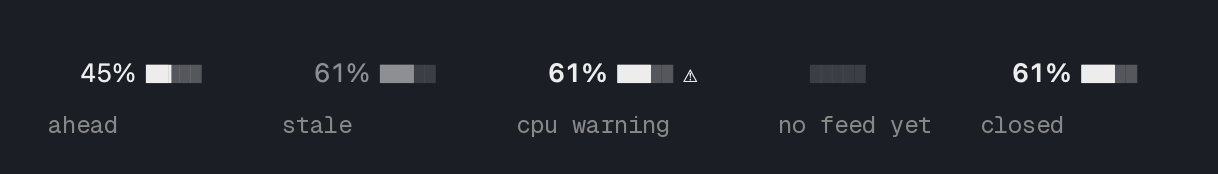
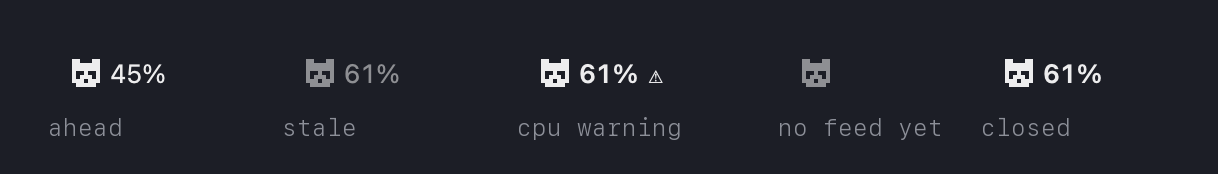
0.1.2: the menu bar item is the panda and the weekly percentage

diff --git a/docs/spec.html b/docs/spec.html
@@ -61,7 +61,7 @@
 <ul>
 <li><b>Swift Package Manager only.</b> No Xcode project. A package with <code>swift-tools-version 6.0</code>, platform macOS 14, seven library targets, one executable target <code>tokenpanda</code> linking AppKit, IOKit and UserNotifications, and one test target <code>tokenpandaTests</code>. Proven on the build Mac (Command Line Tools only, Swift 6.4, SDK 27.0): a status item plus popover package builds in 32 s with <code>swift build -c release</code>; SwiftPM signs the product ad hoc by itself. <code>xcodebuild</code> is not needed and not available there.</li>
 <li><b>Minimum macOS 14.</b> The widest floor among the AI usage meters; the package declares it. Apple silicon first; a universal binary is a release option, untested until someone tests it.</li>
-<li><b>AppKit status item.</b> <code>NSStatusBar.system.statusItem(withLength: .variableLength)</code> with a custom <code>NSView</code> in the item's button that draws the digits and the 5 cell bar and marks itself dirty when a value arrives; no redraw timer. SwiftUI's MenuBarExtra is not used: no custom view in the item, no fade on dismiss, no persisted selection.</li>
+<li><b>AppKit status item.</b> <code>NSStatusBar.system.statusItem(withLength: .variableLength)</code> with a custom <code>NSView</code> in the item's button that draws the panda and the digits and marks itself dirty when a value arrives; no redraw timer. SwiftUI's MenuBarExtra is not used: no custom view in the item, no fade on dismiss, no persisted selection.</li>
 <li><b>NSPopover</b> anchored to the item, 380 by 420 points, with an <code>NSVisualEffectView</code> for the glass and an <code>NSHostingController</code> root; the content is SwiftUI text views rendering the lines the Text module produces, or an AppKit text view, the builder's choice. The popover is one monospaced layout of lines, not controls stacked in a grid.</li>
 <li><b>Activation policy accessory</b> (<code>NSApp.setActivationPolicy(.accessory)</code>) and <code>LSUIElement</code> true in Info.plist: no Dock icon, no app menu.</li>
 <li><b>Not sandboxed.</b> The transcript reader needs <code>~/.claude</code>, the process list needs libproc, and the hook lives in Application Support. The entitlements file is empty.</li>
@@ -327,16 +327,16 @@ countdown  = remaining as "in Nd Nh" or "in Nh Nm"</pre>
 <p>Stored in UserDefaults (the app's preferences plist in <code>~/Library/Preferences</code>). The week over week records and the session snapshots live in Application Support. Nothing else is stored. The Settings tab also carries the privacy sentence as text and Quit with ⌘Q. There is no launch at login setting in the first version (open item).</p>
 
 <h2 id="item">11  The menu bar item</h2>
-<p>One item, variable length. A template image drawn by the custom view: the weekly percentage in the system font with tabular digits at 13 pt, a 5 px gap, a 5 cell block bar at 9 pt in SF Mono with the tick at the elapsed share. Monochrome; the OS inverts it on a light menu bar. Width changes only when the digit count or the appended figure changes.</p>
+<p>One item, variable length. A template image drawn by the custom view: the panda from the app icon as a 7 by 7 pixel mark at 2 pt a pixel, a 5 pt gap, then the weekly percentage in the system font with tabular digits at 13 pt. Monochrome; the OS inverts it on a light menu bar. Width changes only when the digit count or the appended figure changes.</p>
 <table class="nw">
 <tr><th>State</th><th>Drawing</th><th>Trigger</th></tr>
-<tr><td>On pace</td><td>digits 400, monochrome bar, tick</td><td>U within 5 points of E</td></tr>
+<tr><td>On pace</td><td>panda, digits 400, monochrome</td><td>U within 5 points of E</td></tr>
 <tr><td>Ahead</td><td>same</td><td>U below E minus 5</td></tr>
-<tr><td>Over pace</td><td>digits 600; the bar has no tick and no ▓, the semibold figure carries it</td><td>U above E plus 5</td></tr>
+<tr><td>Over pace</td><td>digits 600; the semibold figure carries it</td><td>U above E plus 5</td></tr>
 <tr><td>Stale</td><td>the whole item at 50% opacity</td><td>no snapshot for over an hour, or the window rolled</td></tr>
 <tr><td>Mac warning</td><td>⚠ appended</td><td>the rule in section 8</td></tr>
 <tr><td>With the Mac figure</td><td>" CPU 9%" appended</td><td>the setting macFiguresInBar</td></tr>
-<tr><td>No snapshot yet</td><td>the five cell track alone, no figure, at 50% opacity</td><td>no snapshot file, or none with rate_limits</td></tr>
+<tr><td>No snapshot yet</td><td>the panda alone, no figure, at 50% opacity</td><td>no snapshot file, or none with rate_limits</td></tr>
 </table>
 <p>Click opens the popover; a second click or Esc closes it. The item's accessibility label says the whole state in words (style guide, section 9).</p>
 
@@ -411,9 +411,9 @@ from Claude Code's own status feed on this Mac.</pre>
 
 <h2 id="packaging">17  Packaging</h2>
 <h3>Build</h3>
-<pre>scripts/build-app.sh 0.1.1   # swift build -c release, then build/tokenpanda.app: Contents/MacOS,
+<pre>scripts/build-app.sh 0.1.2   # swift build -c release, then build/tokenpanda.app: Contents/MacOS,
                              # Contents/Resources (hook.sh, AppIcon.icns), Info.plist (LSUIElement true,
-                             # CFBundleIconFile AppIcon), ad hoc codesign; then build/tokenpanda-0.1.1.zip and its SHA-256</pre>
+                             # CFBundleIconFile AppIcon), ad hoc codesign; then build/tokenpanda-0.1.2.zip and its SHA-256</pre>
 <p>Two release paths. Releases are built by path one for now; path two is written here for when the project signs with a Developer ID.</p>
 <h3>Path one: unsigned (ad hoc), own tap</h3>
 <p>Ad hoc signing does not satisfy Gatekeeper on a downloaded file, and since macOS Sequoia Control-click no longer overrides it. Apple's current page (published 2026-05-27) gives the flow, which the README repeats:</p>

diff --git a/docs/styleguide.html b/docs/styleguide.html
@@ -85,7 +85,7 @@
 <tr><td>12 px</td><td>16 px</td><td>400, #999999</td><td>dim lines: reset, pace lines, captions, header line</td></tr>
 <tr><td>12 px</td><td>16 px</td><td>400 italic, #999999</td><td>allowed for a caption of an estimate (Claude Code's "Estimated usage by category"); unused in the popover so far</td></tr>
 <tr><td>13 px</td><td>20 px</td><td>400</td><td>allowed for body text where there is prose to read; these docs use it; the popover does not</td></tr>
-<tr><td>9 px</td><td>10 px</td><td>400</td><td>the 5 cell block bar inside the menu bar item</td></tr>
+<tr><td>9 px</td><td>10 px</td><td>400</td><td>not used since 0.1.2 (was the block bar inside the menu bar item)</td></tr>
 <tr><td>13 px SF</td><td>22 px</td><td>400, 600 when over pace</td><td>the digits of the menu bar item; the OS sets the bar's face, so this is SF Pro Text with tabular numerals, not SF Mono</td></tr>
 <tr><td>13 px SF</td><td>17 px</td><td>400, title 600</td><td>the nudge banner; the OS draws it</td></tr>
 <tr><td>11 px SF</td><td></td><td>400</td><td>the time in the nudge banner</td></tr>
@@ -271,7 +271,7 @@
 <div class="t"><div id="c-imac"></div><div class="cap">with the Mac figure</div></div>
 <div class="t"><div id="c-ilight"></div><div class="cap">light bar  over pace  Mac figure</div></div>
 </div></div>
-<p class="use"><b>Use</b> one item. The weekly percentage in SF with tabular digits, a gap of 5 px, a 5 cell block bar at 9 px with the tick, monochrome like Apple's own items (a template image, so it inverts on a light menu bar). Over pace: the digits go semibold and full cells past the tick become ▓. Stale: the whole item at 50% opacity. Mac warning: ⚠ appended. When "Mac figures in the bar" is on, " CPU 9%" is appended.</p>
+<p class="use"><b>Use</b> one item. The panda from the app icon as a 7 by 7 pixel mark, a gap of 5 px, then the weekly percentage in SF with tabular digits, monochrome like Apple's own items (a template image, so it inverts on a light menu bar). Over pace: the digits go semibold. Stale: the whole item at 50% opacity. Mac warning: ⚠ appended. When "Mac figures in the bar" is on, " CPU 9%" is appended.</p>
 <p class="use"><b>Do not</b> use colour in the bar, do not add a second figure by default, do not cram four glyphs into it, do not animate it.</p>
 
 <h3>6.13  Nudge banner</h3>

diff --git a/docs/docs.js b/docs/docs.js
@@ -166,18 +166,11 @@ function cbRow(label, on, sub, o = {}) {
   return s;
 }
 
-/* menu bar item: SF digits, 5 cell block bar at 9 px with the tick, monochrome */
+/* menu bar item (0.1.2): the panda as a 7 by 7 pixel mark, a 5 px gap, SF digits, monochrome */
+const PANDA = '<svg class="pnd" viewBox="0 0 64 64" shape-rendering="crispEdges" aria-hidden="true"><path fill="currentColor" d="M4 4h16v8H4zM44 4h16v8H44zM4 12h8v8H4zM52 12h8v8h-8zM12 12h40v8H12zM4 20h56v8H4zM4 28h8v8H4zM28 28h8v8h-8zM52 28h8v8h-8zM4 36h8v8H4zM20 36h24v8H20zM52 36h8v8h-8zM4 44h24v8H4zM36 44h24v8H36zM12 52h40v8H12z"/></svg>';
 function item(used, E, o = {}) {
-  const N = 5, f = used / 100 * N, full = Math.floor(f), e8 = Math.round((f - full) * 8);
-  const t = Math.min(N - 1, Math.round(E / 100 * N));
-  let solid = '', rest = '';
-  for (let i = 0; i < N; i++) {
-    const g = i < full ? '█' : i === full ? (e8 === 8 ? '█' : EIGHTHS[e8]) : ' ';
-    const gg = (o.over && i >= t && g === '█') ? '▓' : g;
-    if (gg === '█' && !rest) solid += gg; else rest += gg;
-  }
   const cls = 'mbi' + (o.over ? ' over' : '') + (o.stale ? ' stale' : '');
-  return '<span class="' + cls + '">' + used + '%<span class="mini" style="width:' + N + 'ch"><span class="mt">' + '█'.repeat(N) + '</span><span class="mf"><span class="solid">' + solid + '</span>' + rest + '</span><span class="mk" style="left:' + t + 'ch">▏</span></span>'
+  return '<span class="' + cls + '">' + PANDA + (used == null ? '' : used + '%')
     + (o.warn ? '<span class="g">⚠</span>' : '') + (o.mac ? '<span> CPU 9%</span>' : '') + '</span>';
 }
 const strip = (html, light) => '<span class="strip' + (light ? ' light' : '') + '">' + html + '</span>';

diff --git a/docs/docs.css b/docs/docs.css
@@ -31,10 +31,11 @@
 .r6 .osbar .batt{width:26px;height:12px;stroke-width:1}
 .r6 .osbar .clock{font-variant-numeric:tabular-nums}
 
-/* the menu bar item: SF digits, a 5 cell block bar at 9 px */
+/* the menu bar item: the panda, then SF digits */
 .r6 .mbi{display:inline-flex;align-items:center;gap:5px;height:22px;padding:0 4px;font:400 13px/22px var(--sf);font-variant-numeric:tabular-nums;white-space:pre;color:inherit}
 .r6 .mbi.over{font-weight:600}
 .r6 .mbi.stale{opacity:.5}
+.r6 .mbi .pnd{width:14px;height:14px;flex:none}
 .r6 .mini{position:relative;display:inline-block;height:10px;font:9px/10px var(--mono);vertical-align:0;white-space:pre}
 .r6 .mini .mt{opacity:.28}
 .r6 .mini .mf,.r6 .mini .mk{position:absolute;left:0;top:0}

diff --git a/README.md b/README.md
@@ -20,7 +20,7 @@ Every time I looked at a usage percentage I did the same sum in my head. It is T
 
 <img src="docs/shots/item-states.png" width="609" alt="The menu bar item in five states: ahead, stale, cpu warning, no feed yet, closed">
 
-The menu bar item: the weekly percentage and a five cell bar, dimmed when the figures are older than an hour.
+The menu bar item: the panda and the weekly percentage, dimmed when the figures are older than an hour.
 
 ![The popover on its three tabs: Claude, Mac and Settings](docs/shots/tabs.png)
 
@@ -75,7 +75,7 @@ You need a Mac on macOS 14 or later with the Command Line Tools or Xcode. Swift 
 ```sh
 swift build
 swift test -Xswiftc -plugin-path -Xswiftc /Library/Developer/CommandLineTools/usr/lib/swift/host/plugins/testing
-scripts/build-app.sh 0.1.1
+scripts/build-app.sh 0.1.2
 open build/tokenpanda.app
 ```
 

diff --git a/CHANGELOG.md b/CHANGELOG.md
@@ -1,5 +1,9 @@
 # Changelog
 
+## 0.1.2, 2026-10-15
+
+- The menu bar item is the panda and the weekly percentage. The five cell bar is gone; the percentage still goes semibold over pace and the item still dims when the figures are older than an hour.
+
 ## 0.1.1, 2026-10-14
 
 - App icon: the panda drawn in 44 terminal cells, also used for the documentation favicon.
